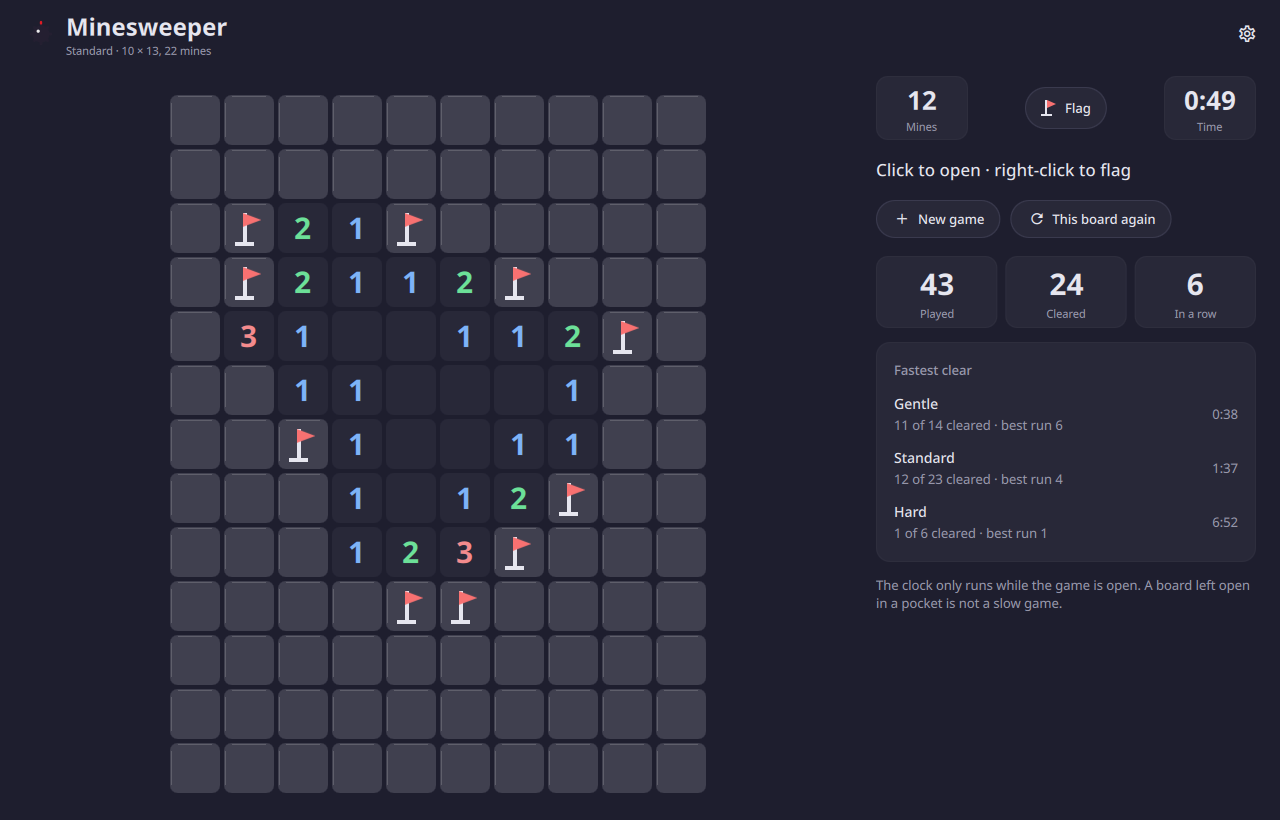
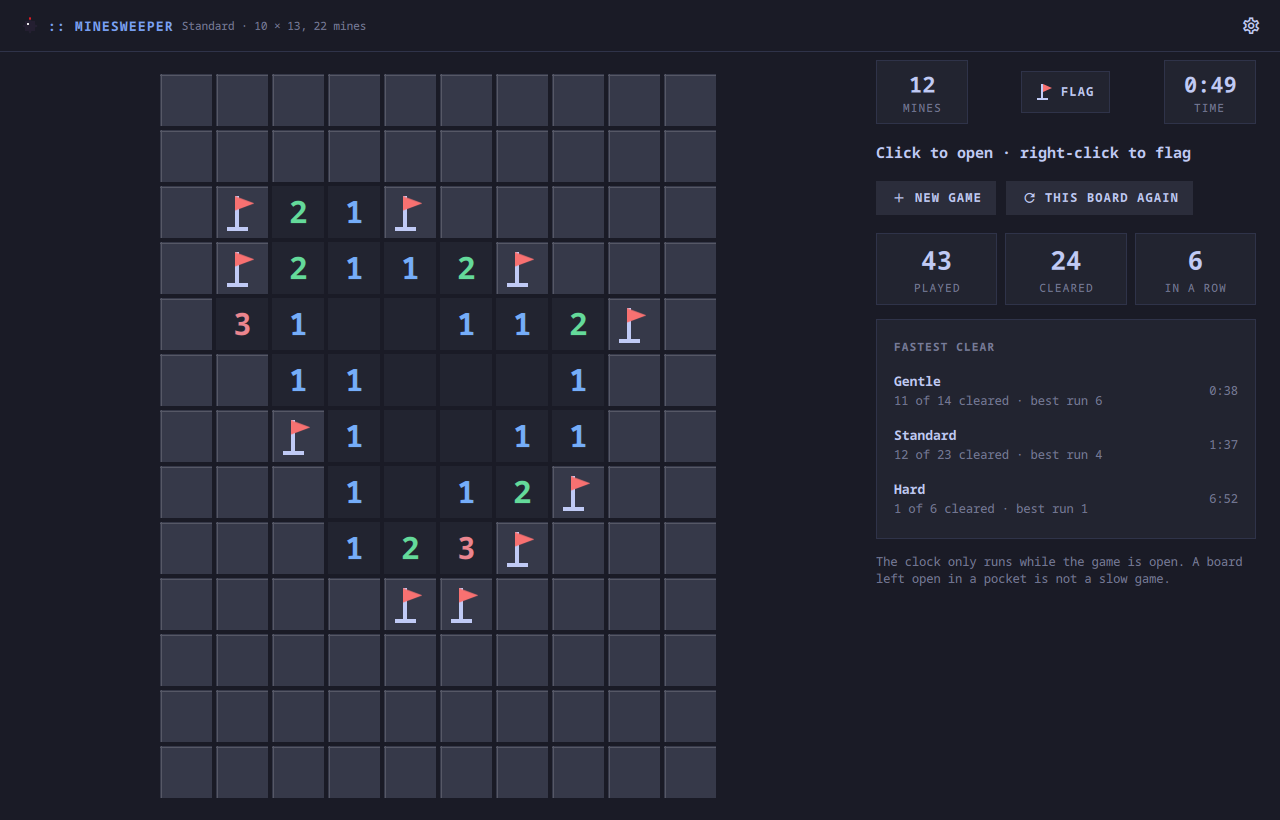
Minesweeper in Omarchy's look: square, lined, in capitals
Tiles take the theme's corner and no more than a tile can carry, so on
Omarchy the field is a grid of squares. The flag button, the readings and
the record are lined boxes with capital labels; a wrong flag's cross is
square-ended. Mines stay round: they are mines.

diff --git a/apps/minesweeper/RecordView.qml b/apps/minesweeper/RecordView.qml
@@ -26,10 +26,10 @@ Column {
         required property var modelData
         width: (root.width - 16) / 3
         height: 72
-        radius: root.app.ui.radius + 2
+        radius: root.app.ui.radius
         color: root.app.ui.surface
         border.width: 1
-        border.color: root.app.ui.divider
+        border.color: root.app.ui.line
         Column {
           anchors.centerIn: parent
           spacing: 2
@@ -48,6 +48,8 @@ Column {
             color: root.app.ui.muted
             font.family: root.app.ui.font
             font.pixelSize: root.app.ui.fs.xs
+            font.capitalization: Font.AllUppercase
+            font.letterSpacing: root.app.ui.tracking
           }
         }
       }
@@ -75,7 +77,7 @@ Column {
             color: root.app.ui.text
             font.family: root.app.ui.font
             font.pixelSize: root.app.ui.fs.md
-            font.weight: Font.DemiBold
+            font.weight: Font.Bold
           }
           Text {
             width: parent.width

diff --git a/apps/minesweeper/Field.qml b/apps/minesweeper/Field.qml
@@ -70,7 +70,8 @@ Item {
           y: root.gap / 2
           width: parent.width - root.gap
           height: parent.height - root.gap
-          radius: Math.max(3, root.cell * 0.14)
+          // A tile's corner is the theme's, and never more than a tile can carry.
+          radius: Math.min(root.app.ui.radius, root.cell * 0.14)
           color: sq.boom ? root.app.ui.boom : sq.pit ? root.app.ui.pit
             : mouse.pressed ? Qt.darker(root.app.ui.lid, 1.08)
             : mouse.containsMouse ? Qt.tint(root.app.ui.lid, root.app.ui.hover) : root.app.ui.lid
@@ -193,7 +194,7 @@ Item {
             anchors.centerIn: parent
             width: root.cell * 0.8
             height: Math.max(2, root.cell * 0.09)
-            radius: height / 2
+            radius: root.app.ui.round(height)
             rotation: modelData
             color: root.app.ui.wrong
           }

diff --git a/apps/minesweeper/FlagButton.qml b/apps/minesweeper/FlagButton.qml
@@ -10,11 +10,11 @@ Rectangle {
   readonly property bool on: app.marking
   implicitWidth: row.implicitWidth + 32
   implicitHeight: app.ui.target + 4
-  radius: height / 2
+  radius: app.ui.radius
   opacity: app.over ? 0.45 : 1
   color: on ? app.ui.flag : mouse.pressed ? app.ui.pressed : mouse.containsMouse ? app.ui.hover : app.ui.surface
   border.width: on ? 0 : 1
-  border.color: app.ui.border
+  border.color: app.ui.line
   Accessible.role: Accessible.CheckBox
   Accessible.name: "Flag"
   Accessible.checked: on
@@ -56,7 +56,9 @@ Rectangle {
       color: root.on ? root.app.ui.inkOnFlag : root.app.ui.text
       font.family: root.app.ui.font
       font.pixelSize: root.app.ui.fs.sm
-      font.weight: Font.DemiBold
+      font.weight: Font.Bold
+      font.capitalization: Font.AllUppercase
+      font.letterSpacing: root.app.ui.tracking
     }
   }
 

diff --git a/apps/minesweeper/Panel.qml b/apps/minesweeper/Panel.qml
@@ -379,7 +379,7 @@ App {
       color: root.over ? root.ui.accent : root.ui.muted
       font.family: root.ui.font
       font.pixelSize: root.ui.fs.md
-      font.weight: root.over ? Font.DemiBold : Font.Normal
+      font.weight: root.over ? Font.Bold : Font.Normal
     }
     Field {
       app: root
@@ -458,7 +458,7 @@ App {
           color: root.over ? root.ui.accent : root.ui.text
           font.family: root.ui.font
           font.pixelSize: root.ui.fs.lg
-          font.weight: Font.DemiBold
+          font.weight: Font.Bold
         }
         Row {
           spacing: 10

diff --git a/apps/minesweeper/Readings.qml b/apps/minesweeper/Readings.qml
@@ -18,10 +18,10 @@ Item {
     property var app
     width: 92
     height: parent.height
-    radius: app.ui.radius + 2
+    radius: app.ui.radius
     color: app.ui.surface
     border.width: 1
-    border.color: app.ui.divider
+    border.color: app.ui.line
     Column {
       anchors.centerIn: parent
       spacing: 1
@@ -40,6 +40,8 @@ Item {
         color: box.app.ui.muted
         font.family: box.app.ui.font
         font.pixelSize: box.app.ui.fs.xs
+        font.capitalization: Font.AllUppercase
+        font.letterSpacing: box.app.ui.tracking
       }
     }
   }
